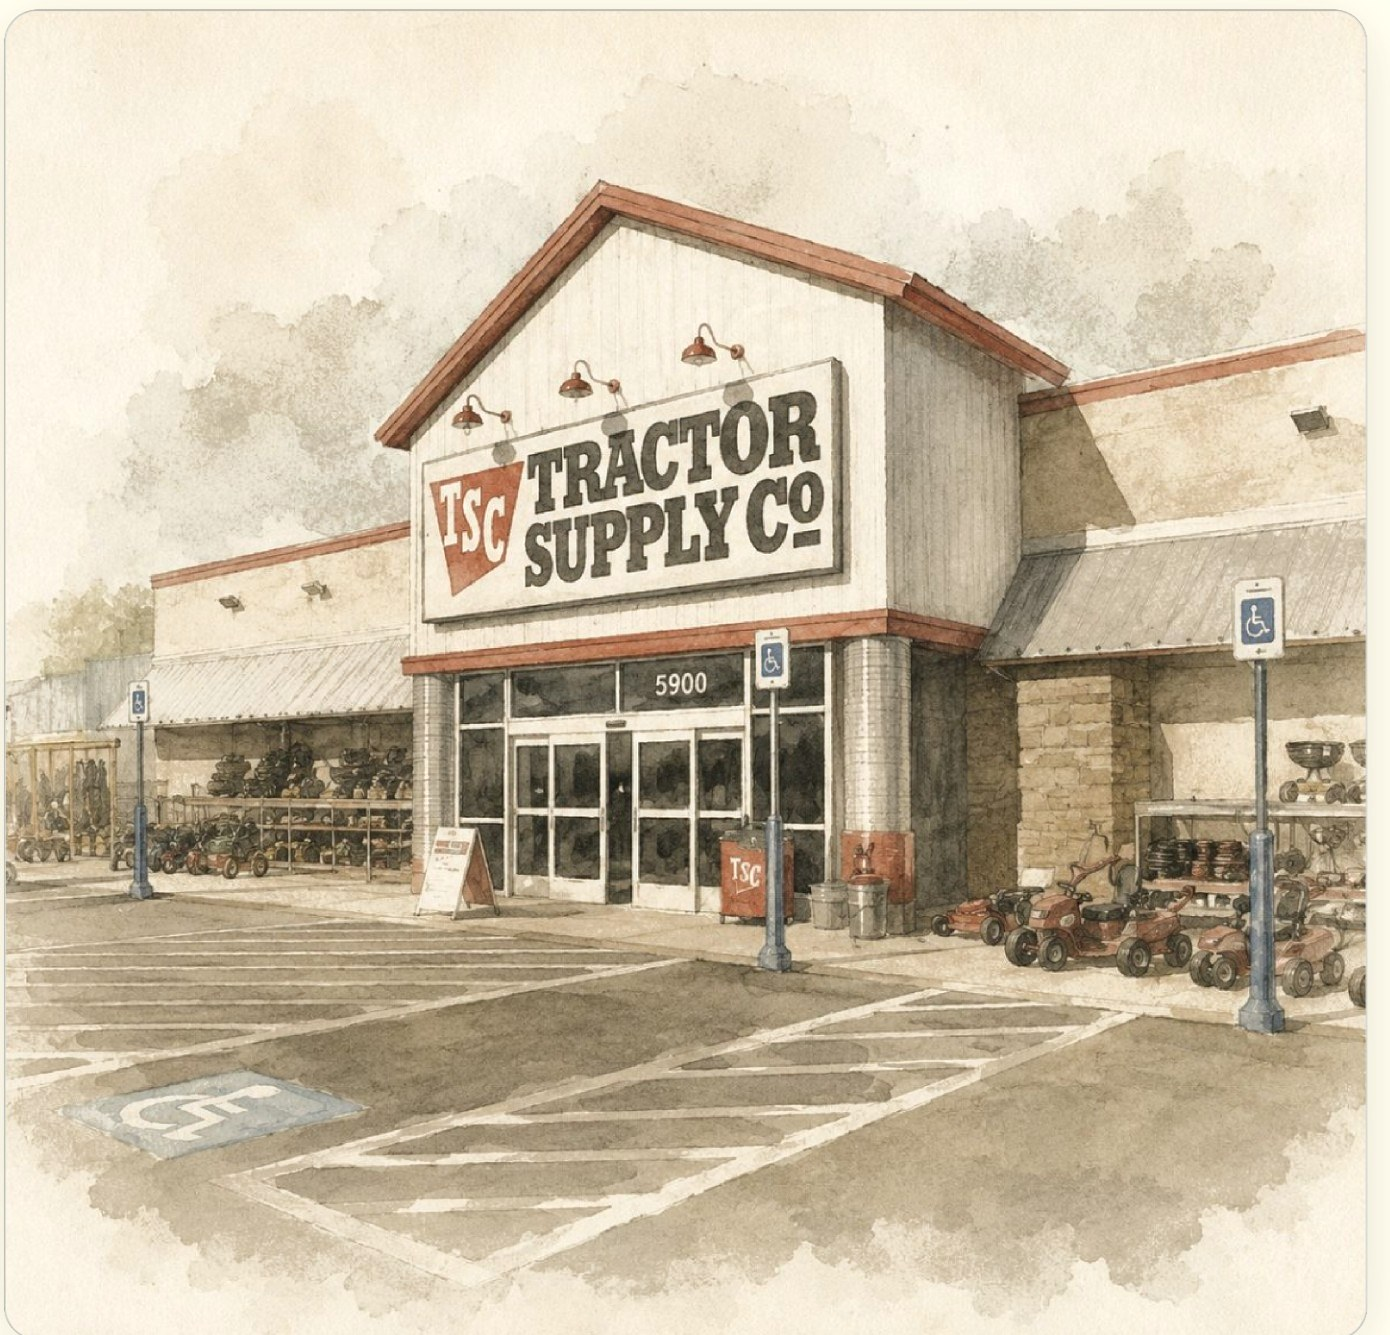
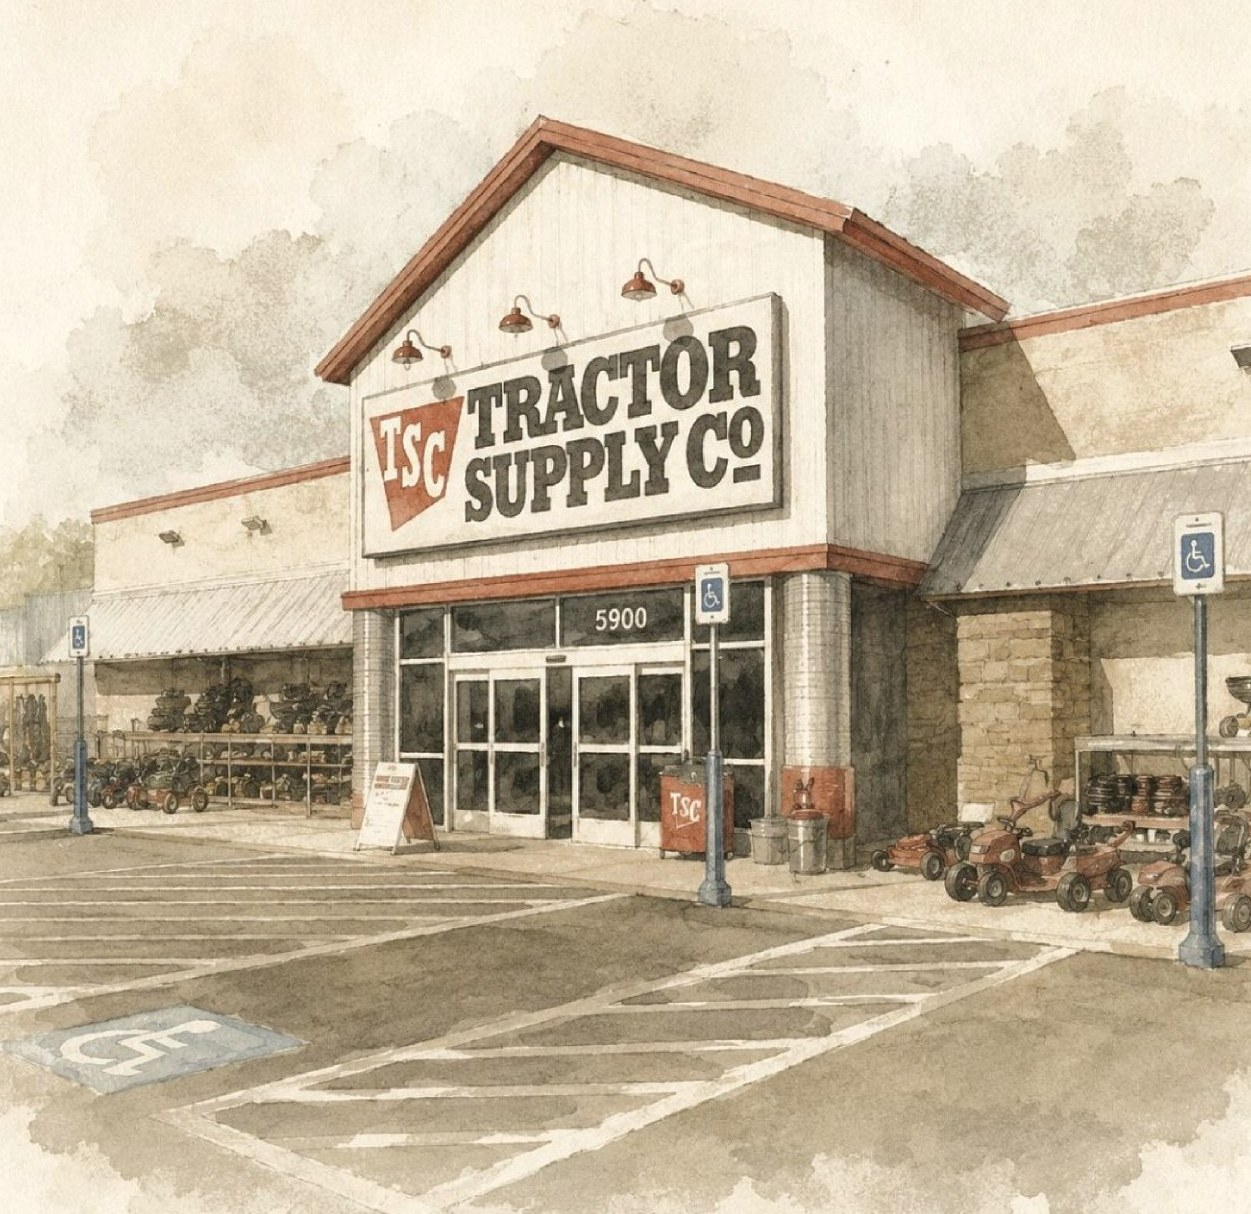
Terracotta hover on all primary CTAs; VC reorder; width/crop fixes
Site-wide: primary buttons (Inquire, Connect) now go terracotta on hover,
matching the submit and maps buttons; refresh CSS version on all pages.
Village Commons: move 'The Bigger Picture' above 'Now Open'; match the
West Tennessee map width to the downtown photo; crop the white paper edge
off the Tractor Supply watercolor.
The Banks: equestrian photo now precedes the press board; widen the
village-square image to match the other boards.

diff --git a/village-commons.html b/village-commons.html
@@ -11,8 +11,8 @@
 <meta property="og:image" content="assets/projects/vc-masterplan.jpg">
 <link rel="preconnect" href="https://fonts.googleapis.com">
 <link rel="preconnect" href="https://fonts.gstatic.com" crossorigin>
-<link rel="stylesheet" href="colors_and_type.css?v=2">
-<link rel="stylesheet" href="styles.css?v=2">
+<link rel="stylesheet" href="colors_and_type.css?v=12">
+<link rel="stylesheet" href="styles.css?v=12">
 <link rel="icon" href="assets/favicon.png">
 <!-- Plausible Analytics (privacy-friendly). Create the site at plausible.io, then this starts recording. -->
 <script defer data-domain="theriverstonegroup.com" src="https://plausible.io/js/script.js"></script>
@@ -199,6 +199,22 @@
     </div>
   </section>
 
+  <!-- ==================================================== THE BIGGER PICTURE (district context) -->
+  <section class="bp-sec">
+    <div class="bp-head rs-reveal">
+      <p class="rs-chapter">The Bigger Picture</p>
+      <h2 class="bp-h2">Anchored in a growing district.</h2>
+      <p class="bp-lede">Village Commons sits at the retail heart of a master-planned corridor on North Centennial Avenue &mdash; alongside <em>Tyson</em>, <em>FedEx</em>, and <em>Walmart</em>, hundreds of acres of industrial and flex park, and future parks and greenway.</p>
+    </div>
+    <div class="bp-figure rs-reveal" data-delay="1" style="max-width:1180px;padding:0;">
+      <img src="assets/projects/vc-context.jpg" alt="Aerial context — Village Commons and Village Commons East beside Tractor Supply, Flex Park, large industrial parcels, FedEx, Walmart, and Tyson along Tyson Boulevard and North Centennial Avenue">
+    </div>
+    <div class="bp-figure rs-reveal" data-delay="2" style="max-width:1180px;padding:0;margin-top:clamp(20px,2.6vw,34px);">
+      <img src="assets/projects/vc-east-plan.jpg" alt="Village Commons East site plan — concept grading plan with lots, a proposed convenience store, fuel station and canopy, drive-thru oil-change, and a new street alignment">
+    </div>
+    <p class="bp-cap rs-reveal" data-delay="2">Village Commons East &mdash; site plan</p>
+  </section>
+
   <!-- ==================================================== NOW OPEN (Tractor Supply) -->
   <section class="bp-sec">
     <div class="bp-head rs-reveal">
@@ -244,22 +260,6 @@
     </ul>
   </section>
 
-  <!-- ==================================================== THE BIGGER PICTURE (district context) -->
-  <section class="bp-sec">
-    <div class="bp-head rs-reveal">
-      <p class="rs-chapter">The Bigger Picture</p>
-      <h2 class="bp-h2">Anchored in a growing district.</h2>
-      <p class="bp-lede">Village Commons sits at the retail heart of a master-planned corridor on North Centennial Avenue &mdash; alongside <em>Tyson</em>, <em>FedEx</em>, and <em>Walmart</em>, hundreds of acres of industrial and flex park, and future parks and greenway.</p>
-    </div>
-    <div class="bp-figure rs-reveal" data-delay="1" style="max-width:1180px;padding:0;">
-      <img src="assets/projects/vc-context.jpg" alt="Aerial context — Village Commons and Village Commons East beside Tractor Supply, Flex Park, large industrial parcels, FedEx, Walmart, and Tyson along Tyson Boulevard and North Centennial Avenue">
-    </div>
-    <div class="bp-figure rs-reveal" data-delay="2" style="max-width:1180px;padding:0;margin-top:clamp(20px,2.6vw,34px);">
-      <img src="assets/projects/vc-east-plan.jpg" alt="Village Commons East site plan — concept grading plan with lots, a proposed convenience store, fuel station and canopy, drive-thru oil-change, and a new street alignment">
-    </div>
-    <p class="bp-cap rs-reveal" data-delay="2">Village Commons East &mdash; site plan</p>
-  </section>
-
   <!-- ==================================================== SENSE OF PLACE (downtown Humboldt) -->
   <section class="bp-sec bp-sec--tight">
     <div class="bp-figure rs-reveal" style="max-width:1180px;padding:0;">
@@ -274,7 +274,7 @@
       <p class="rs-chapter">Location</p>
       <h2 class="bp-h2">West Tennessee.</h2>
     </div>
-    <div class="bp-figure rs-reveal" data-delay="1">
+    <div class="bp-figure rs-reveal" data-delay="1" style="max-width:1180px;padding:0;">
       <img src="assets/projects/vc-map.jpg" alt="Illustrated regional map — Humboldt at the heart of West Tennessee, anchored by I-40 to Nashville and Memphis and US-45 to Jackson">
     </div>
     <ul class="bp-loc__drive rs-reveal" data-delay="1" style="max-width:440px;margin-left:auto;margin-right:auto;">

diff --git a/banks.html b/banks.html
@@ -11,8 +11,8 @@
 <meta property="og:image" content="assets/projects/banks-hero.jpg">
 <link rel="preconnect" href="https://fonts.googleapis.com">
 <link rel="preconnect" href="https://fonts.gstatic.com" crossorigin>
-<link rel="stylesheet" href="colors_and_type.css?v=2">
-<link rel="stylesheet" href="styles.css?v=2">
+<link rel="stylesheet" href="colors_and_type.css?v=12">
+<link rel="stylesheet" href="styles.css?v=12">
 <link rel="icon" href="assets/favicon.png">
 <!-- Plausible Analytics (privacy-friendly). Create the site at plausible.io, then this starts recording. -->
 <script defer data-domain="theriverstonegroup.com" src="https://plausible.io/js/script.js"></script>
@@ -277,7 +277,7 @@
 
   <!-- ==================================================== VISION (image only) -->
   <section class="bp-sec" style="padding-top:clamp(28px,4vw,56px);">
-    <div class="bp-figure rs-reveal" style="max-width:980px;">
+    <div class="bp-figure rs-reveal" style="max-width:1080px;padding:0;">
       <img src="assets/projects/banks-square.jpg" alt="Watercolor rendering of the village square at The Banks">
     </div>
   </section>
@@ -302,19 +302,19 @@
     <img src="assets/projects/banks-street.jpg" alt="Watercolor rendering of the tree-lined promenade at The Banks, with shops, dining, and people gathering">
   </div>
 
-  <!-- ==================================================== IN THE PRESS -->
-  <section class="bp-sec">
-    <div class="bp-figure rs-reveal" style="max-width:900px;">
-      <img src="assets/projects/banks-press.jpg" alt="Press summary — The Banks at Brownland, a 233-acre community, covered by the Nashville Business Journal, The Tennessean, NewsChannel 5 and others, with quotes from the Nashville Predators, Tennessee Titans, and Nashville SC">
-    </div>
-  </section>
-
   <!-- ==================================================== HERITAGE (equestrian) -->
-  <section class="bp-sec" style="padding-top:clamp(40px,5vw,72px);">
+  <section class="bp-sec">
     <div class="bp-figure rs-reveal" style="max-width:1080px;padding:0;">
       <img src="assets/projects/banks-equestrian.jpg" alt="A horse and rider at Brownland Farm — the equestrian tradition that shaped the land, established 1963">
     </div>
     <p class="bp-cap rs-reveal" data-delay="1">Brownland Farm &mdash; equestrian ground since 1963</p>
+  </section>
+
+  <!-- ==================================================== IN THE PRESS -->
+  <section class="bp-sec" style="padding-top:clamp(40px,5vw,72px);">
+    <div class="bp-figure rs-reveal" style="max-width:900px;">
+      <img src="assets/projects/banks-press.jpg" alt="Press summary — The Banks at Brownland, a 233-acre community, covered by the Nashville Business Journal, The Tennessean, NewsChannel 5 and others, with quotes from the Nashville Predators, Tennessee Titans, and Nashville SC">
+    </div>
   </section>
 
   <!-- ==================================================== LOCATION (centered stacked) -->

diff --git a/styles.css b/styles.css
@@ -77,7 +77,7 @@ img { max-width: 100%; }
   background: var(--action); color: var(--action-fg); border-color: var(--action);
   transition: background 220ms var(--ease-out), color 220ms var(--ease-out), border-color 220ms var(--ease-out), transform var(--dur-fast) var(--ease-out);
 }
-.rs-btn--primary:hover { background: var(--action-fg); color: var(--action); border-color: var(--action); }
+.rs-btn--primary:hover { background: var(--emphasis); color: var(--rs-cream); border-color: var(--emphasis); }
 .rs-btn--outline { background: transparent; color: var(--action-line); border-color: var(--action-line); }
 .rs-btn--outline:hover { background: var(--action-line); color: var(--action-fg); }
 .rs-btn--on-warm { background: var(--rs-cream); color: var(--emphasis); border-color: var(--rs-cream); }

diff --git a/index.html b/index.html
@@ -10,8 +10,8 @@
 <meta property="og:type" content="website">
 <link rel="preconnect" href="https://fonts.googleapis.com">
 <link rel="preconnect" href="https://fonts.gstatic.com" crossorigin>
-<link rel="stylesheet" href="colors_and_type.css?v=11">
-<link rel="stylesheet" href="styles.css?v=11">
+<link rel="stylesheet" href="colors_and_type.css?v=12">
+<link rel="stylesheet" href="styles.css?v=12">
 <link rel="icon" href="assets/favicon.png">
 <!-- Plausible Analytics (privacy-friendly). Create the site at plausible.io, then this starts recording. -->
 <script defer data-domain="theriverstonegroup.com" src="https://plausible.io/js/script.js"></script>

diff --git a/people.html b/people.html
@@ -10,8 +10,8 @@
 <meta property="og:type" content="website">
 <link rel="preconnect" href="https://fonts.googleapis.com">
 <link rel="preconnect" href="https://fonts.gstatic.com" crossorigin>
-<link rel="stylesheet" href="colors_and_type.css?v=6">
-<link rel="stylesheet" href="styles.css?v=6">
+<link rel="stylesheet" href="colors_and_type.css?v=12">
+<link rel="stylesheet" href="styles.css?v=12">
 <link rel="icon" href="assets/favicon.png">
 <!-- Plausible Analytics (privacy-friendly). Create the site at plausible.io, then this starts recording. -->
 <script defer data-domain="theriverstonegroup.com" src="https://plausible.io/js/script.js"></script>

diff --git a/12th-south.html b/12th-south.html
@@ -11,8 +11,8 @@
 <meta property="og:image" content="assets/projects/12-south-poster.jpg">
 <link rel="preconnect" href="https://fonts.googleapis.com">
 <link rel="preconnect" href="https://fonts.gstatic.com" crossorigin>
-<link rel="stylesheet" href="colors_and_type.css?v=2">
-<link rel="stylesheet" href="styles.css?v=2">
+<link rel="stylesheet" href="colors_and_type.css?v=12">
+<link rel="stylesheet" href="styles.css?v=12">
 <link rel="icon" href="assets/favicon.png">
 <!-- Plausible Analytics (privacy-friendly). -->
 <script defer data-domain="theriverstonegroup.com" src="https://plausible.io/js/script.js"></script>

diff --git a/tbch.html b/tbch.html
@@ -11,8 +11,8 @@
 <meta property="og:image" content="assets/projects/tbch-poster.jpg">
 <link rel="preconnect" href="https://fonts.googleapis.com">
 <link rel="preconnect" href="https://fonts.gstatic.com" crossorigin>
-<link rel="stylesheet" href="colors_and_type.css?v=6">
-<link rel="stylesheet" href="styles.css?v=6">
+<link rel="stylesheet" href="colors_and_type.css?v=12">
+<link rel="stylesheet" href="styles.css?v=12">
 <link rel="icon" href="assets/favicon.png">
 <!-- Plausible Analytics (privacy-friendly). -->
 <script defer data-domain="theriverstonegroup.com" src="https://plausible.io/js/script.js"></script>
